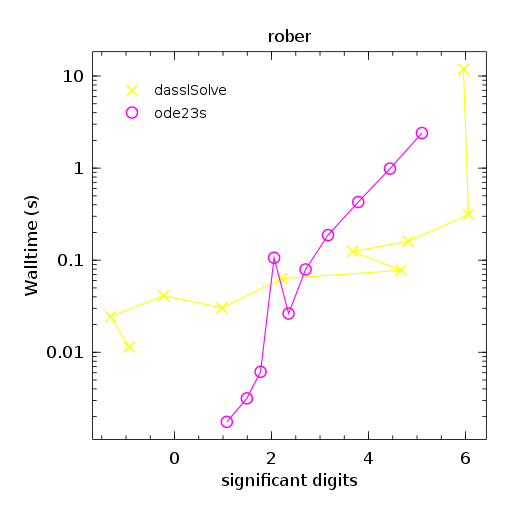
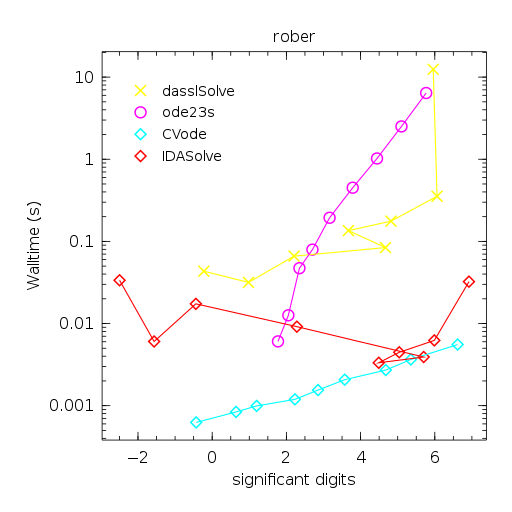
Fixed some issues with Sundials rober test

diff --git a/results/results.md b/results/results.md
@@ -12,7 +12,7 @@ These tests can be run with the scrips
 A few observations:
 
 - DASSL.jl seems to be as capable as the Sundials solvers if sometimes
-  slower but also sometimes faster.
+  slower (but also sometimes faster).
 - For large(-ish) systems, e.g. stemming from PDEs, DASSL.jl seems to
   be the best and fastest choice at the moment because of the patchy support of
   sparse Jacobians in Sundials. (please correct me if wrong).
@@ -34,9 +34,6 @@ the timings might be off.
 ![hires](img/scd-vs-walltime-hires.png)
 
 ![rober](img/scd-vs-walltime-rober.png)
-
-- The Sundials solvers did not manage to cope with this problem at
-  all, thus no results are shown.  Still need to investigate this further.
 
 ![bruss1d](img/scd-vs-walltime-bruss1d.png)
 
